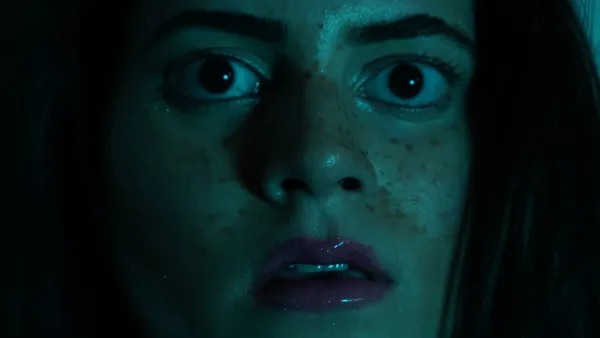
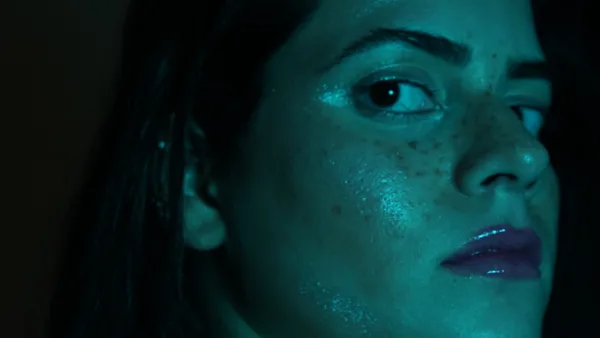
Elsewhere: show only the owner's final photography selection, no titles

diff --git a/src/data/elsewhere.ts b/src/data/elsewhere.ts
@@ -17,8 +17,8 @@ export interface WorkSet {
   works: Work[];
 }
 
-const portraits = 'portfolio documents/Self-portraits/';
-const directed = 'portfolio documents/Self-directed project/';
+const portraits = 'final photography/self-portraits/';
+const directed = 'final photography/self-directed/';
 
 export const sets: WorkSet[] = [
   {
@@ -39,6 +39,12 @@ export const sets: WorkSet[] = [
       },
       {
         file: 'self-portrait-03',
+        source: `${portraits}FTM06136.jpg`,
+        year: '2019',
+        alt: 'Self-portrait with the head wrapped in white gauze, only the eyes visible, cool light on a black ground.',
+      },
+      {
+        file: 'self-portrait-04',
         source: `${portraits}FTM06170.jpg`,
         year: '2019',
         alt: 'Side profile lit from one edge, the rest of the face and body falling into black.',
@@ -51,51 +57,48 @@ export const sets: WorkSet[] = [
     works: [
       {
         file: 'self-directed-01',
-        source: `${directed}DSC08472.jpg`,
-        alt: 'Face and head wrapped in sheer nude stocking fabric, eyes closed, in warm amber light.',
+        source: `${directed}DSC08456(2).jpg`,
+        alt: 'Frontal close-up of eyes and nose under sheer stocking fabric, in amber light.',
       },
       {
         file: 'self-directed-02',
-        source: `${directed}DSC08458.jpg`,
+        source: `${directed}DSC08458(1).jpg`,
         alt: 'Angled close-up of a face pressed under sheer stocking fabric, in amber light.',
       },
       {
         file: 'self-directed-03',
-        source: `${directed}DSC08456.jpg`,
-        alt: 'Frontal close-up of eyes and nose under sheer stocking fabric, in amber light.',
+        source: `${directed}DSC08472.jpg`,
+        alt: 'Face and head wrapped in sheer nude stocking fabric, eyes closed, in warm amber light.',
       },
       {
         file: 'self-directed-04',
-        source: `${directed}DSC08650.jpg`,
-        alt: 'Teal-lit portrait turned to the side, looking back over the shoulder, purple lips.',
+        source: `${directed}DSC08590(1).jpg`,
+        alt: 'Teal-lit figure seen from behind, head turned in profile over a bare shoulder.',
       },
       {
         file: 'self-directed-05',
-        source: `${directed}DSC08691.jpg`,
-        alt: 'Tight teal-lit frontal close-up with wide eyes and parted purple lips.',
+        source: `${directed}DSC08633(1).jpg`,
+        alt: 'Teal-lit close side profile with freckles and purple lips, looking upward.',
       },
       {
         file: 'self-directed-06',
-        source: `${directed}DSC08693.jpg`,
+        source: `${directed}DSC08650(1).jpg`,
+        alt: 'Teal-lit portrait turned to the side, looking back over the shoulder, purple lips.',
+      },
+      {
+        file: 'self-directed-07',
+        source: `${directed}DSC08661.jpg`,
+        alt: 'Teal-lit profile with eyes closed, face tilted upward.',
+      },
+      {
+        file: 'self-directed-08',
+        source: `${directed}DSC08691(1).jpg`,
+        alt: 'Tight teal-lit frontal close-up with wide eyes and parted purple lips.',
+      },
+      {
+        file: 'self-directed-09',
+        source: `${directed}DSC08693(1).jpg`,
         alt: 'A second teal-lit frontal close-up, wide eyes and parted lips.',
-      },
-    ],
-  },
-  {
-    title: 'Illustration',
-    note: 'Coloured pencil on paper, illustration course, Habib University.',
-    works: [
-      {
-        file: 'illustration-01',
-        source: 'Illustration_course_bachelors/IMG_20200618_133545_842.jpg',
-        year: '2020',
-        alt: 'Four-panel comic: a phone booking a flight, a plane over a map of Japan, two cooks at their pots, and a book about Japanese food.',
-      },
-      {
-        file: 'illustration-02',
-        source: 'Illustration_course_bachelors/IMG_20200626_143916_387.jpg',
-        year: '2020',
-        alt: 'Comic page: a dachshund walks along a road under trees with a speech bubble, above a street of pink houses with a police car.',
       },
     ],
   },
